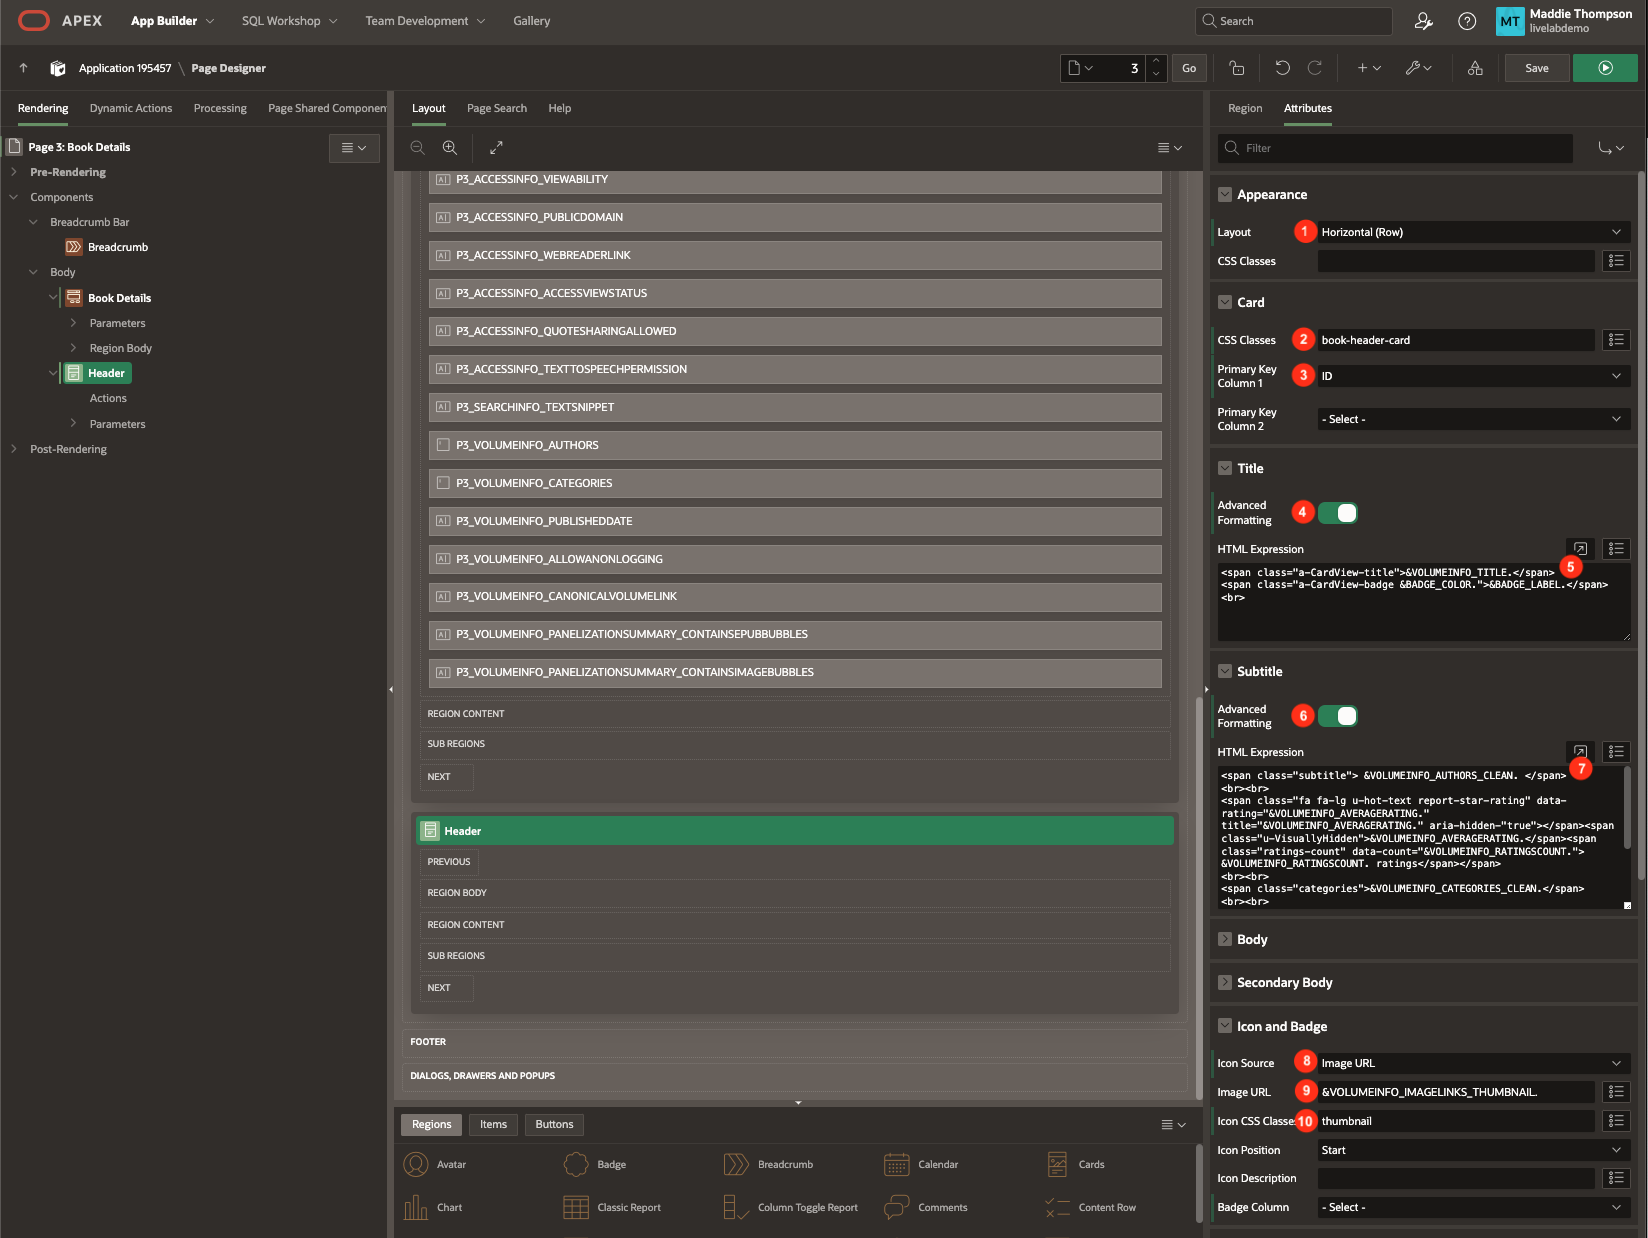
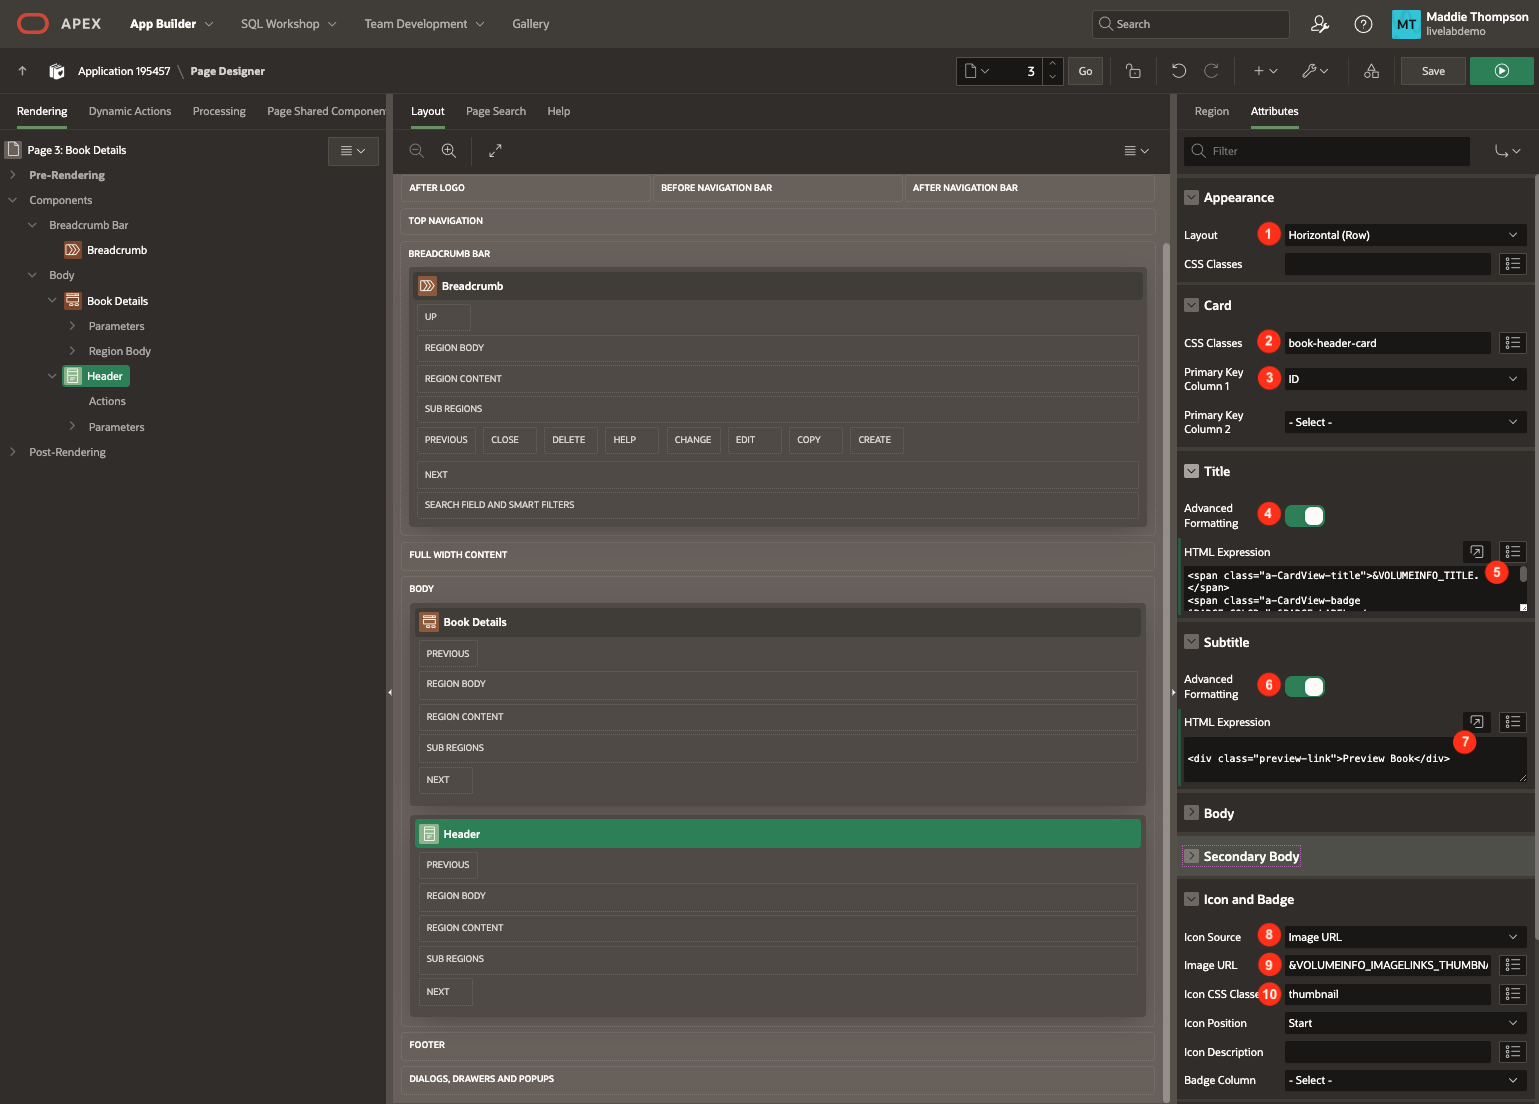
updates to lab 4 - created tasks to include book preview functionality

diff --git a/book-club-lab/4-creating-details-page/creating-book-details-page.md b/book-club-lab/4-creating-details-page/creating-book-details-page.md
@@ -11,6 +11,8 @@ In this lab, you will:
 - Create a new page, Book Details.  
 - Use the Google Books REST source to display data on the Book Details page.  
 - Connect the Book Details page to the Book Search page.
+- Create a new page, Preview Book.
+- Connect the Preview Book page to the Book Details page.
 - Add button to the Book Details page to navigate back to the previous page.
 
 ### Prerequisites
@@ -179,7 +181,7 @@ You can use the value stored in the P3\_ID page item in the Book Details form to
 
 1. You will first need to hide all the Book page items so that you can still access the values stored in them but create your own content for the page. To do this, you can set the Type of a column to Hidden, which will not display an item on the frontend.
 
-    * To select all items, click on the first item under the Movie region, P3\_ID, and then hold shift and click on the last item, P3\_VOLUMEINFO\_PANELIZATIONSUMMARY\_CONTAINSIMAGEBUBBLES.
+    * To select all items, click on the first item under the Book Details region, P3\_ID, and then hold shift and click on the last item, P3\_VOLUMEINFO\_PANELIZATIONSUMMARY\_CONTAINSIMAGEBUBBLES.
 
     * In the Page Items editing pane, set Type: **Hidden**
 
@@ -262,14 +264,6 @@ You can use the value stored in the P3\_ID page item in the Book Details form to
             &lt;span class="a-CardView-title">&VOLUMEINFO_TITLE.&lt;/span>
             &lt;span class="a-CardView-badge &BADGE_COLOR.">&BADGE_LABEL.&lt;/span>
             &lt;br>
-            ```
-
-        - Subtitle → Advanced Formatting: **on**
-
-        - Subtitle → HTML Expression:
-
-            ```
-            <copy>
             &lt;span class="subtitle"> &VOLUMEINFO_AUTHORS_CLEAN. &lt;/span>
             &lt;br>&lt;br>
             &lt;span class="fa fa-lg u-hot-text report-star-rating" data-rating="&VOLUMEINFO_AVERAGERATING." title="&VOLUMEINFO_AVERAGERATING." aria-hidden-"true">&lt;/span><span class="u-VisuallyHidden">&VOLUMEINFO_AVERAGERATING.&lt;/span>&lt;span class="ratings-count" data-count="&VOLUMEINFO_RATINGSCOUNT."> &VOLUMEINFO_RATINGSCOUNT. ratings&lt;/span>&lt;/span>
@@ -282,6 +276,17 @@ You can use the value stored in the P3\_ID page item in the Book Details form to
             &lt;br>
             &lt;div class="preview-link">&lt;a href="&VOLUMEINFO_PREVIEWLINK." target="_blank">Preview Book&lt;/a>&lt;/div>
             ```
+
+        - Subtitle → Advanced Formatting: **on**
+
+        - Subtitle → HTML Expression:
+
+            ```
+            <copy>
+            &lt;div class="preview-link">Preview Book&lt;/div>
+            ```
+            
+            *Note: We are only putting the Preview Book link in the Subtitle section because later we will create a card action type of Subtitle that will open a modal containing the book preview when the subtitle content is clicked.*
 
         - Icon and Badge → Icon Source: **Image URL**
 
@@ -332,7 +337,7 @@ You can use the value stored in the P3\_ID page item in the Book Details form to
 
 
 ## Task 3: Connect the Details Page to the Search Page
-To be able to view the details of any book you click on on the Movie Search page, you can link the Details page to the Search page like you did when setting up the Book Search page and Add Movie button. However, in order to get the details for the specific book you clicked on, you have to pass some data from the Search page to the Details page.
+To be able to view the details of any book you click on on the Book Search page, you can link the Details page to the Search page. However, in order to get the details for the specific book you clicked on, you have to pass some data from the Search page to the Details page.
 
 1. Navigate to page **2: Book Search** by clicking the down arrow in the page navigation on the Page Designer toolbar.
 
@@ -350,7 +355,7 @@ To be able to view the details of any book you click on on the Movie Search page
 
         - Page: **3**
 
-        - You also need to set the value of the ID item on page 3 (P3\_ID) so that the Book Details page has the ID of the movie that was clicked on.
+        - You also need to set the value of the ID item on page 3 (P3\_ID) so that the Book Details page has the ID of the book that was clicked on.
 
         - Set Items:
 
@@ -376,8 +381,156 @@ To be able to view the details of any book you click on on the Movie Search page
 
     ![Book Details dialog page open in runtime application](images/details-page-live.png " ")
 
+## Task 4: Create Preview Book Page
+You will create another new page, Preview Book, which contains a Form. While this form will not display in the final Book Preview page, it will hold the Book Details data needed to display content in other regions on the page. On this page we will be using the Google Book Embedded Viewer API to embed the book preview content directly into our application with JavaScript.
 
-## Task 4: Implement Back Button Navigation
+1. In the toolbar at the top of the Page Designer, click the **Create** button (3 buttons left of the Save button) and select **Page**. 
+
+    * Click **Form**.
+
+    ![Create a Page wizard overlaying Page 2 in Page Designer](images/create-page.png " ")
+
+    * Page Number: **4**
+    
+    * Name: **Preview Book**
+
+    * Page Mode: **Modal Dialog**
+
+    * Data Source: **REST Data Source**
+
+    * REST Data Source: **Google Books API**
+
+    * Click **Next**.
+
+    ![Create Page wizard on the Create a Form step to set the page and data source attributes](images/create-form-2.png " ")
+
+    * Select **ID (Varchar2)** as the Primary Key Column 1 value.
+
+    * Click **Create Page**.
+
+    ![Create Page wizard on the Create a Form step to set the form primary key](images/create-form-pk-2.png " ")
+
+    * You should now be on page 4, the **Preview Book** page.
+
+2. Make sure **Page 4: Preview Book** is selected in the rendering pane on the left.
+
+3. In the **CSS** property group, paste the code below and into the **Inline** CSS code editor:
+
+    ```
+    <copy>
+    /* set size of embedded viewer container */
+    #viewerCanvas {
+        width: auto;
+        height: 500px;
+    }
+    ```
+    ![Page 4 open in Page Designer with the CSS property group visible in the Page property editor](images/preview-page-css.png " ")
+
+4. Like we did previously for the Book Details page, you will first need to hide all the Book page items so that you can still access the values stored in them but create your own content for the page. To do this, you can set the Type of a column to Hidden, which will not display an item on the frontend.
+
+    * To select all items, click on the first item under the Preview Book region, P4\_ID, and then hold shift and click on the last item, P4\_VOLUMEINFO\_PANELIZATIONSUMMARY\_CONTAINSIMAGEBUBBLES.
+
+    * In the Page Items editing pane, set Type: **Hidden**
+
+    ![Page 4 open in Page Designer with all Preview Book form items selected and their type set to Hidden in the Property Editor](images/hide-items-2.png " ")
+
+5. Since we aren't entering details into the form, we don't need the Cancel button that was added by default. Under Close, right click on **Buttons** region under Dialog Footer in the rendering pane and click **Delete**.
+
+    ![Page 4 open in Page Designer with Button region context menu open and Delete selected](images/delete-button-region.png " ")
+
+6. In order to get the preview for a specific book selected from the Details page, you have to update the **q** parameter that is part of the call to the Google Books API. When you look at the Preview Book region in the rendering pane, you can see that under it is a Parameters section, just like there was for the Details and Header regions on the Book Details page.
+
+7. Expand the **Parameters** section under the **Preview Book** region.
+
+8. Click on the **q** parameter.
+
+    * Change the Type from REST Source Default to **Item**.
+
+    * In the Item field, enter **P4\_ID**.
+
+    ![Page 4 open in Page Designer with Property Editor open on editing the q parameter](images/book-id-parameter-2.png " ")
+
+
+9. We will also need to define a primary key for this form region.
+
+10. Expand the **Region Body** section under the **Preview Book** region.
+
+11. Click on the **P4\_ID** page item.
+
+    * Source → Primary Key: **on**
+
+    ![Page 4 open in Page Designer with Property Editor open on editing the P4_ID page item](images/set-pk-item.png " ")
+
+12. Now we will add a region to display the viewer from the Google Books Embedded Viewer API.
+
+13. To start creating the header for the Book Details page, right click on Content Body and select **Create Region**.
+
+    * Set the following:
+
+        - Name: **Embedded Viewer**
+
+        - Source → HTML Code:
+
+            ```
+            <copy>
+            <html>
+            <head>
+                <meta http-equiv="content-type" content="text/html; charset=utf-8"/>
+                <title>Google Books Embedded Viewer API Example</title>
+                <script type="text/javascript" src="https://www.google.com/books/jsapi.js"></script>
+                <script type="text/javascript">
+                google.books.load();
+
+                function initialize() {
+                    var viewer = new google.books.DefaultViewer(document.getElementById('viewerCanvas'));
+                    viewer.load($v( "P4_ID" ));
+                }
+
+                google.books.setOnLoadCallback(initialize);
+                </script>
+            </head>
+            <body>
+                <div id="viewerCanvas"></div>
+            </body>
+            </html>
+            ```
+            ![Page 4 open in Page Designer with Property Editor open on editing the Embedded Viewer region properties](images/viewer-region-properties.png " ")
+
+14. Click **Save**.
+
+## Task 5: Connect the Preview Page to the Details Page
+To be able to view the preview of a book you click on from the Book Details page, you need to link the Preview page to the Details page. However, in order to get the preview for the specific book you clicked on, you have to pass some data from the Details page to the Preview page.
+
+1. Navigate to page **3: Book Details** by clicking the down arrow in the page navigation on the Page Designer toolbar.
+
+2. On the Book Details page, you can see in the rendering pane that the Header region has an **Actions** section underneath it.
+
+3. Right click on **Actions** underneath Header and select **Create Action**.
+
+    ![Close up of rendering pane with Cards Action context menu open on Page 3 in Page Designer ](images/create-action-2.png " ")
+
+    * Identification → Type: **Subtitle**
+
+    * The Link section is where you can connect page 4 to page 3 by redirecting the user to a new page.
+
+    * Click on **No Link Defined** next to Target to open the Link Builder dialog.
+
+        - Page: **4**
+
+        - You also need to set the value of the ID item on page 4 (P4\_ID) so that the Preview Book page has the ID of the book that was clicked on.
+
+        - Set Items:
+
+            - Name: **P4\_ID**  |  Value: **&ID.**
+
+        - Click **Ok**.
+
+        ![Link Builder Target dialog for Header Card Subtitle action open over Page 3 in Page Designer](images/header-card-action.png " ")
+
+4. Click **Save**.
+
+
+## Task 6: Implement Back Button Navigation
 Now that we've connected the Book Details page to the Book Search page, we will need a way to navigate back to the previous page. Since Book Details is a common page (can be navigated from both the Book Search page and the My Library page), we will need to create a page item to hold the previous page value so the Back button knows where to redirect the user.
 
 1. Navigate to page **3: Book Details** by clicking the down arrow in the page navigation on the Page Designer toolbar.

diff --git a/book-club-lab/intro/intro.md b/book-club-lab/intro/intro.md
@@ -26,11 +26,11 @@ In this lab, you will:
 | -   | [Getting Started](?lab=1-sign-up-apex)                           | 5 min     |
 | 1   | [Create the Application](?lab=create-app)                        | 10 min    |
 | 2   | [Create REST Data Sources](?lab=creating-rest-sources)           | 10 min    |
-| 3   | [Create the Search Page](?lab=creating-movie-search-page)        | 20 min    |
-| 4   | [Create the Details Page](?lab=creating-movie-details-page)      | 20 min    |
+| 3   | [Create the Search Page](?lab=creating-book-search-page)        | 20 min    |
+| 4   | [Create the Details Page](?lab=creating-book-details-page)      | 20 min    |
 | 5   | [Create Local Tables](?lab=creating-tables)                      | 10 min    |
 | 6   | [Implement Buttons and Badges](?lab=creating-buttons-badges)     | 25 min    |
-| 7   | [Implement the Library Page](?lab=implementing-watchlist-page) | 25 min    |
+| 7   | [Implement the Library Page](?lab=implementing-library-page) | 25 min    |
 | 8   | [Create APEX Collections for Ratings](?lab=adding-cast-list)                | 5 min     |
 | -   | [Implement Discussion Forum (Optional)](?lab=improving-watchlist-page)       | 5 min     |
 
